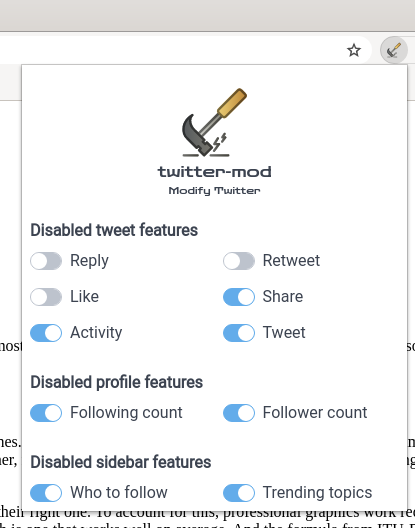
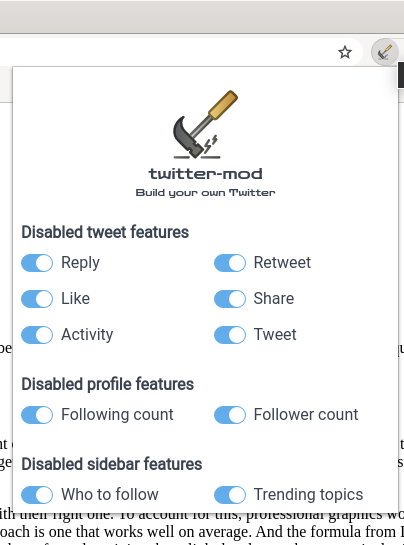
update tagline

diff --git a/src/html/settings-page.html b/src/html/settings-page.html
@@ -15,7 +15,7 @@
           <div class="column col-12 text-center">
             twitter-mod
             <br>
-            <span class='small'>Modify Twitter</span>
+            <span class='small'>Build your own Twitter</span>
           </div>
         </div>
       </section>
